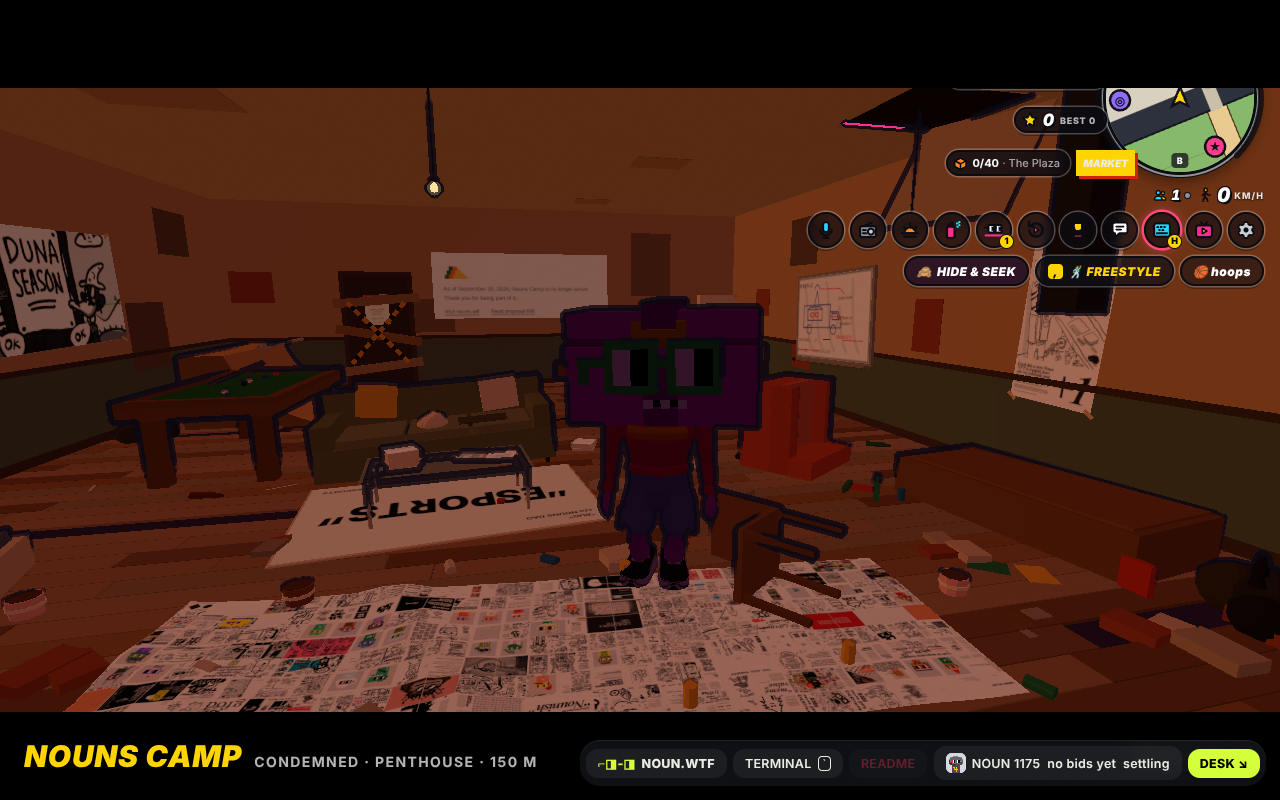
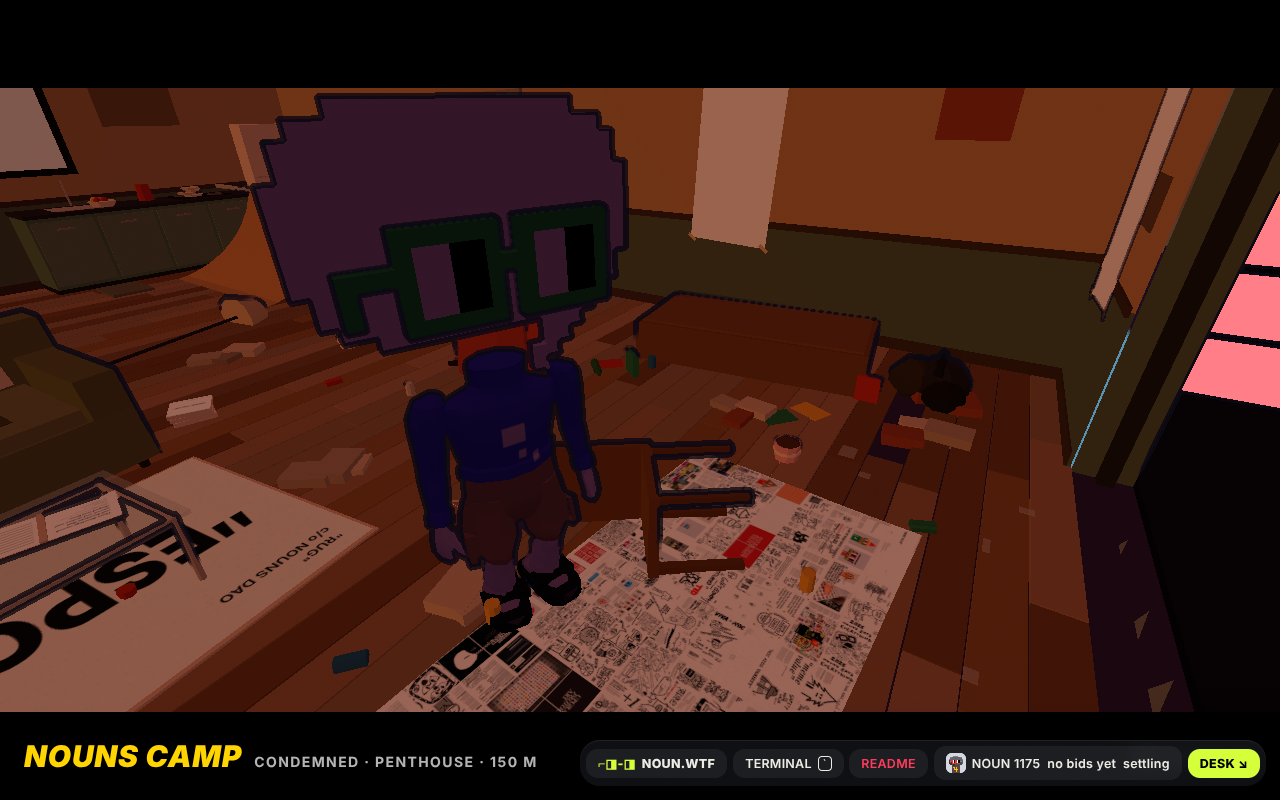
Noun World: CAMP intro swings round the rider; framed notice; prints over the rail
- The opening shot came in through the window facing the rider and passed
  straight over their head, so the view flipped front to back. It now
  orbits round their roomier side at head height into play, looking at them
  the whole way (tested from every spawn: at most ~6 degrees of turn a frame,
  inside the room).
- Nouns Camp's closure notice is in a black frame.
- The pinned prints hung 1 cm behind the dado rail; they hang 7 cm off the
  wall now (tested: every print clears the rail).

Claude-Session: https://claude.ai/code/session_01Nf9CuMCnRi3mq4eqFeYwCF

diff --git a/packages/nouns-webapp/src/miniapps/world2/world/camp/intro.ts b/packages/nouns-webapp/src/miniapps/world2/world/camp/intro.ts
@@ -2,9 +2,10 @@
 //
 // The first spawn opens on a flying camera: up over the plaza at sunset, a
 // sweeping climb round to the tallest tower, a dive at the window (slowing
-// as it comes), in through the opening, up over the rider's head under the
-// ceiling, swinging round to settle exactly where the game camera sits
-// behind them (so the hand-off has no snap). Everything here is numbers: a
+// as it comes), in through the opening, then round the rider's side at
+// head height (looking at them all the way, so it swings rather than flips)
+// to settle exactly where the game camera sits behind them (so the
+// hand-off has no snap). Everything here is numbers: a
 // centripetal Catmull–Rom through the shot's points, walked by arc length
 // on an ease-out, plus where the camera looks and its field of view.
 
@@ -54,14 +55,44 @@ export function introPoints(site: CampSite, rider: V3, final: V3): V3[] {
   const f = site.faceZ;
   const fy = site.floorY;
   const wy = Math.min(site.window.y1 - 0.75, fy + 2.0);
-  const head = Math.min(site.ceilY - 0.45, rider[1] + 2.9);
+  // The rider's facing (the final camera sits behind them) and their side
+  let bx = final[0] - rider[0];
+  let bz = final[2] - rider[2];
+  const bl = Math.hypot(bx, bz) || 1;
+  bx /= bl;
+  bz /= bl;
+  const fx = -bx;
+  const fz = -bz;
+  // Orbit round whichever side has more room
+  const r = site.room;
+  const room = (x: number, z: number) => Math.min(x - r.minX, r.maxX - x, z - r.minZ, r.maxZ - z);
+  const R = 2.3;
+  const sideOf = (s: number): V3 => [rider[0] + -fz * s * R, 0, rider[2] + fx * s * R];
+  const s = room(sideOf(1)[0], sideOf(1)[2]) >= room(sideOf(-1)[0], sideOf(-1)[2]) ? 1 : -1;
+  const sx = -fz * s;
+  const sz = fx * s;
+  const y = Math.min(site.ceilY - 0.6, rider[1] + 1.9);
+  const inRoom = (x: number, z: number): V3 => [
+    Math.min(r.maxX - 0.45, Math.max(r.minX + 0.45, x)),
+    y,
+    Math.min(r.maxZ - 0.45, Math.max(r.minZ + 0.6, z)),
+  ];
+  // In front of them (between them and the window), round their side,
+  // behind-and-beside, then the game camera: a swing, never a flip
+  const arc = (a: number) =>
+    inRoom(
+      rider[0] + (fx * Math.cos(a) + sx * Math.sin(a)) * R,
+      rider[2] + (fz * Math.cos(a) + sz * Math.sin(a)) * R,
+    );
   return [
     [o.x + 75, 92, f - 120], // far out over the plaza, low sun behind
     [o.x + 48, 128, f - 70], // the climb, swinging round
     [o.x + 14, fy + 6, f - 26], // lined up on the window, a little high
     [o.x, wy, f - 7], // straight at it
     [o.x, wy, f + 0.9], // through the opening
-    [rider[0], head, rider[2]], // over the rider's head, under the ceiling
+    arc(0.55), // ahead of the rider, off to one side
+    arc(Math.PI / 2), // beside them
+    arc(Math.PI * 0.8), // coming round behind
     final,
   ];
 }

diff --git a/packages/nouns-webapp/src/miniapps/world2/world/camp/intro.test.ts b/packages/nouns-webapp/src/miniapps/world2/world/camp/intro.test.ts
@@ -72,6 +72,42 @@ describe("CAMP's opening shot", () => {
     });
   }
 
+  it('swings round the rider into play: the view turns smoothly, never flips', () => {
+    for (const sp of L.spawns) {
+      const o = site.origin;
+      const rider: V3 = [o.x + sp.x, site.floorY, o.z + sp.z];
+      const back = [-Math.sin(sp.yaw), -Math.cos(sp.yaw)];
+      const final: V3 = [
+        Math.min(site.room.maxX - 0.3, Math.max(site.room.minX + 0.3, rider[0] + back[0]! * 3)),
+        site.floorY + 2.1,
+        Math.min(site.room.maxZ - 0.3, rider[2] + back[1]! * 3),
+      ];
+      const shot = introShot(site, rider, final, [rider[0], rider[1] + 1.3, rider[2]], 62);
+      const yawAt = (s: number) => {
+        const q = shot(s);
+        return Math.atan2(q.look[0] - q.pos[0], q.look[2] - q.pos[2]);
+      };
+      // From the moment it's inside, heading turns at most ~6° a frame (60 fps)
+      let prev = yawAt(INTRO_SECONDS * 0.75);
+      let maxTurn = 0;
+      for (let s = INTRO_SECONDS * 0.75 + 1 / 60; s <= INTRO_SECONDS; s += 1 / 60) {
+        const y = yawAt(s);
+        const d = Math.abs(Math.atan2(Math.sin(y - prev), Math.cos(y - prev)));
+        maxTurn = Math.max(maxTurn, d);
+        prev = y;
+      }
+      expect(maxTurn, `spawn ${sp.x},${sp.z}`).toBeLessThan(0.11);
+      // …and stays in the room the whole way round
+      for (let s = INTRO_SECONDS * 0.8; s <= INTRO_SECONDS; s += 0.05) {
+        const p = shot(s).pos;
+        expect(p[0]).toBeGreaterThan(site.room.minX + 0.2);
+        expect(p[0]).toBeLessThan(site.room.maxX - 0.2);
+        expect(p[2]).toBeLessThan(site.room.maxZ - 0.2);
+        expect(p[1]).toBeLessThan(site.ceilY - 0.3);
+      }
+    }
+  });
+
   it('moves smoothly (no jumps between frames at 60 fps)', () => {
     const sp = L.spawns[0]!;
     const o = site.origin;

diff --git a/packages/nouns-webapp/src/miniapps/world2/world/camp/layout.ts b/packages/nouns-webapp/src/miniapps/world2/world/camp/layout.ts
@@ -131,16 +131,17 @@ export function campLayout(
     p('notice', 2.3, d - 0.12, 0.42, 0.02, 0.56, { y: 1.25, yaw: Math.PI }),
     p('tape', 2.3, d - 0.08, 1.5, 0.02, 1.6, { y: 0.3, yaw: Math.PI }),
     p('tag', -0.4, d - 0.045, 3.4, 0.02, 1.25, { y: 1.35, yaw: Math.PI }),
-    // The book on the walls, pinned up crooked: NOUNS EATS EVERYTHING by the
+    // The book on the walls, pinned up crooked and hanging clear of the dado
+    // rail (its face is ~5 cm off the wall): NOUNS EATS EVERYTHING by the
     // window, the zebra on the west wall, DUNA SEASON (the biggest) on the east
-    p('print', (-W + winX0) / 2, 0.045, 0.72, 0.02, 1.44, { y: 0.85, v: 0 }),
-    p('print', -W + 0.045, 3.0, 0.8, 0.02, 1.6, { y: 0.8, yaw: Math.PI / 2, v: 1 }),
-    p('print', W - 0.045, 6.45, 2.6, 0.02, 1.3, { y: 1.2, yaw: -Math.PI / 2, v: 2 }),
+    p('print', (-W + winX0) / 2, 0.07, 0.72, 0.02, 1.44, { y: 0.85, v: 0 }),
+    p('print', -W + 0.07, 3.0, 0.8, 0.02, 1.6, { y: 0.8, yaw: Math.PI / 2, v: 1 }),
+    p('print', W - 0.07, 6.45, 2.6, 0.02, 1.3, { y: 1.2, yaw: -Math.PI / 2, v: 2 }),
     // The esports rug under the coffee table; every page of the book,
     // crumpled on the floor in front of the window
     p('rug', 0.5, 3.75, 2.4, 1.6, 0.04, { yaw: 0.12 }),
     p('sheet', -0.2, 1.55, 4.2, 1.35, 0.1, { yaw: -0.09 }),
-    p('poster', W - 0.045, 3.4, 0.9, 0.02, 1.3, { y: 1.15, yaw: -Math.PI / 2, v: 1 }),
+    p('poster', W - 0.07, 3.4, 0.9, 0.02, 1.3, { y: 1.15, yaw: -Math.PI / 2, v: 1 }),
     // Overhead: a bare bulb on its flex, a ceiling tile come down
     p('bulb', 0.5, 3.9, 0.16, 0.16, 0.9, { y: h - 0.9 }),
     p('ceiling_panel', -3.9, 3.7, 1.2, 1.2, 0.04, { y: h - 1.1, yaw: 0.3 }),

diff --git a/packages/nouns-webapp/src/miniapps/world2/world/camp/build.ts b/packages/nouns-webapp/src/miniapps/world2/world/camp/build.ts
@@ -721,8 +721,16 @@ function piece(kit: Kit, q: Piece, art: CampArt, at: At) {
       break;
     }
     case 'tag': {
+      // Nouns Camp's closure notice, framed in black (the print just inside the moulding)
       at(q.x, q.y, q.z, q.yaw);
-      kit.addArt(panel(q.w, q.h, 0, q.h / 2, 0.003), art.slot.tag);
+      kit.addArt(panel(q.w, q.h, 0, q.h / 2, 0.012), art.slot.tag);
+      const f = 0.07;
+      const black = 0x141414;
+      kit.add(boxAt(-q.w / 2 - f, q.w / 2 + f, q.h, q.h + f, 0, 0.045), black);
+      kit.add(boxAt(-q.w / 2 - f, q.w / 2 + f, -f, 0, 0, 0.045), black);
+      kit.add(boxAt(-q.w / 2 - f, -q.w / 2, 0, q.h, 0, 0.045), black);
+      kit.add(boxAt(q.w / 2, q.w / 2 + f, 0, q.h, 0, 0.045), black);
+      kit.add(boxAt(-q.w / 2, q.w / 2, 0, q.h, 0, 0.008), black);
       break;
     }
     case 'boarded_door': {

diff --git a/packages/nouns-webapp/src/miniapps/world2/world/camp/layout.test.ts b/packages/nouns-webapp/src/miniapps/world2/world/camp/layout.test.ts
@@ -103,6 +103,15 @@ describe('the CAMP layout', () => {
     }
   });
 
+  it('wall prints hang in front of the dado rail, never behind it', () => {
+    // The rail's face: the wall lining (0.03 in) plus 0.02 proud
+    const railFace = 0.05;
+    for (const q of L.pieces.filter(p => p.type === 'print' || p.type === 'poster')) {
+      const gap = Math.min(q.z, L.d - q.z, q.x + L.w / 2, L.w / 2 - q.x);
+      expect(gap, `${q.type} ${q.v}`).toBeGreaterThan(railFace + 0.01);
+    }
+  });
+
   it('solid furniture never overlaps', () => {
     for (let i = 0; i < solids.length; i++)
       for (let j = i + 1; j < solids.length; j++) {

diff --git a/CLAUDE.md b/CLAUDE.md
@@ -277,7 +277,7 @@ NOUNS CAMP is a condemned penthouse on top of the tallest tower (Skyline `TOWERS
 - **Who spawns there:** `firstSpawn.ts` (pure, tested). `?play=`, `?drop=`, `?mode=`, `?spot=`, `?megaramp=`, `?town=`, `?dressing=` keep their own spawn; `?spawn=plaza` keeps the old one (the perf harness passes it so its numbers stay comparable). World2Page calls `game.camp.spawnInside()` once per page load: on foot, at one of 8 spread-out spots, facing the window, time of day set to sunset (`golden`, `Game.setTimeOfDay`). R / falling out still go to the plaza home spots.
 - **Built in place, not a pocket room:** the tower's plaza face runs flush all the way up and its top storey is a hollow shell round a glassless window (`site.ts` `campShellBoxes`, used by Skyline for render + colliders). `CampSystem.build(level)` runs in `Game.start` before the level is toonified and its collision built, so CAMP is static level geometry. The room is the interiors kit (`interiors/kit.ts`, `buildItem`), merged per material: ~4 draws + 1 for the stair.
 - **Inside** (`layout.ts`, pure, tested: inside the room, solids don't overlap, every spawn can walk out of the window, the mini ramp is clear): wrecked sofa, a cracked glass coffee table on the Prop Museum's esports rug (`paintEsportsRug`) with stacked and open MEME VALUE copies (the book's own page images, `art.ts` atlas, 2048 × 1792 / half on the texture diet), more copies open on the floor, the whole book as one crumpled floor poster (`public/world2/camp/meme-value-sheet.webp`, made by `scripts/books/meme-value-sheet.py`), three spreads pinned up crooked (`PRINTS`: reader spread 4 NOUNS EATS EVERYTHING and the zebra turned upright, 83 DUNA SEASON landscape and biggest), empty ice cream tubs, the ice cream van plans on a whiteboard, a sunset poster, a boarded door with a CONDEMNED notice, Nouns Camp's own closure notice, a flickering bulb, a fallen ceiling tile, a pool table (`game.pool.playAt`) and a 1 m mini ramp across the back (`miniramp.ts`, its own skateable collision; a real-Player ride is tested). E or tap at the coffee table opens `/books/meme-value` (World2Page wires `camp.onRead` to the router); E at the table plays pool.
-- **Opening shot** (`intro.ts`, pure, tested from every spawn: starts out over the plaza, crosses the window plane inside the opening, never inside the tower, no frame-to-frame jumps): 7.5 s, a centripetal Catmull–Rom walked by arc length on an ease-out, through `SkateCamera.rig`; it ends exactly on the game camera's own pose (`startIntro` lets the camera place itself once first), so the hand-off doesn't snap. Letterbox + caption in `CampUi` (the HUD hides via `body[data-camp-intro]`). Any key, click, tap, wheel or move skips it; reduced motion and `?camintro=0` (the perf harness) never see it. The indoor light boost waits until the camera's nearly in.
+- **Opening shot** (`intro.ts`, pure, tested from every spawn: starts out over the plaza, crosses the window plane inside the opening, never inside the tower, no frame-to-frame jumps): 7.5 s, a centripetal Catmull–Rom walked by arc length on an ease-out, through `SkateCamera.rig`; inside, it orbits round the rider's roomier side at head height into play (looking at them, so it swings rather than flips; tested: at most ~6° of turn a frame); it ends exactly on the game camera's own pose (`startIntro` lets the camera place itself once first), so the hand-off doesn't snap. Letterbox + caption in `CampUi` (the HUD hides via `body[data-camp-intro]`). Any key, click, tap, wheel or move skips it; reduced motion and `?camintro=0` (the perf harness) never see it. The indoor light boost waits until the camera's nearly in.
 - **Birds** (`birds.ts`, `birdAt` pure + tested: always out in front of the plaza face, crossing the window now and then): 14 silhouettes circling the tower top, one InstancedMesh, flapping by y scale, updated only while the camera is within 220 m.
 - **Portal cull** (`portal.ts`, pure, tested): with the camera inside CAMP, only the room and the pyramid from the camera through the window can be seen, so everything else is hidden by clearing layer bit 0 (only bits it cleared are restored; it never fights MountainStream's ring cull). Reruns when the camera moves 0.25 m or every second, and looks for new meshes every 2 s. `camp.culled` counts what it hides.
 - **Light:** the room sits in the tower's own shadow, so while you're inside the hemisphere light warms and brightens ×2.5 (`CampSystem.ambient`, eased, uniforms only: no relink; it keeps whatever time of day sets meanwhile and restores it on the way out). Only the printed things get a little emissive (a flat emissive on everything washed the room out).
